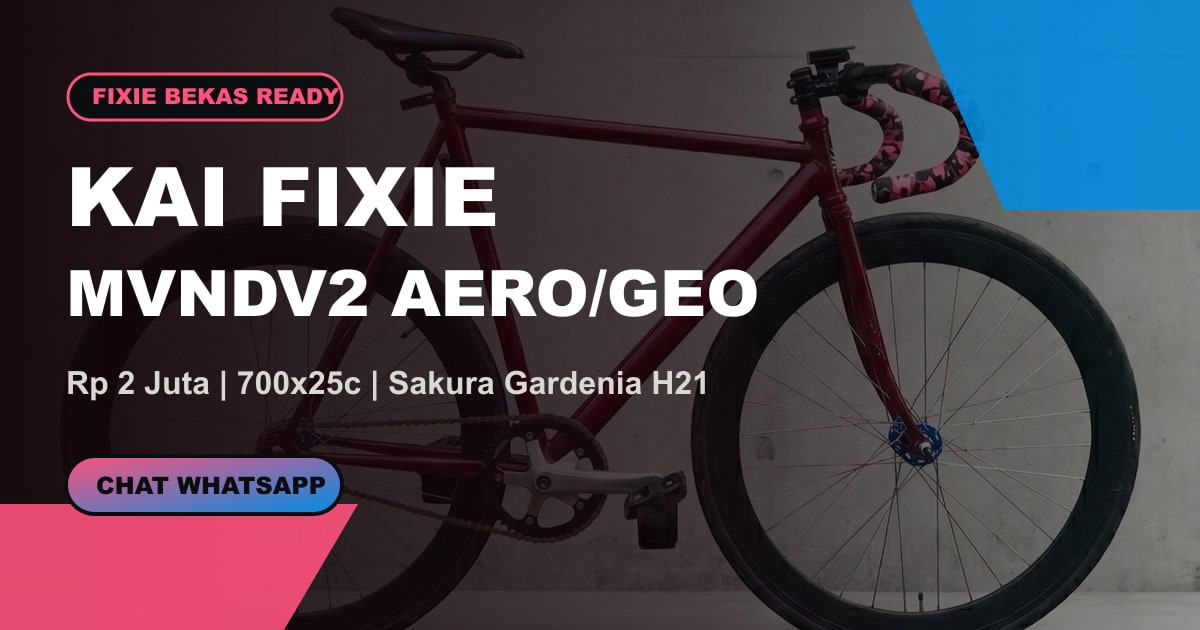
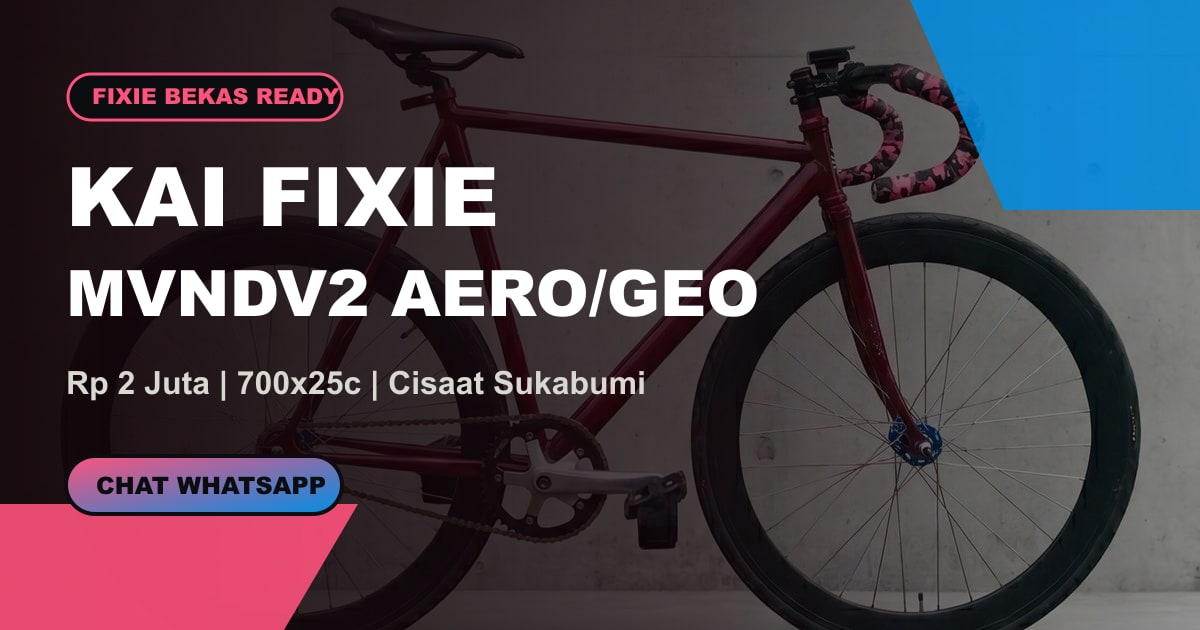
V8

Changed region(s): [[0.3083, 0.573, 0.5858, 0.6333]]

diff --git a/styles.css b/styles.css
@@ -718,6 +718,83 @@ h1 {
   background: var(--hub-blue);
 }
 
+.button-map {
+  margin-top: 12px;
+  color: var(--ink);
+  background: var(--chrome);
+}
+
+.button-outline-dark {
+  color: var(--ink);
+  background: var(--white);
+}
+
+.location-section {
+  background:
+    linear-gradient(180deg, rgba(255, 82, 124, 0.08), rgba(0, 142, 230, 0.08)),
+    var(--paper);
+}
+
+.location-layout {
+  display: grid;
+  grid-template-columns: minmax(0, 0.75fr) minmax(340px, 1fr);
+  gap: 28px;
+  align-items: stretch;
+}
+
+.location-copy {
+  border: 3px solid var(--ink);
+  border-radius: 8px;
+  padding: 30px;
+  background: var(--white);
+  box-shadow: var(--shadow);
+}
+
+.location-copy h2 {
+  font-size: 46px;
+  font-weight: 950;
+}
+
+.location-copy p:not(.eyebrow) {
+  color: var(--muted);
+  font-size: 16px;
+  line-height: 1.65;
+}
+
+.location-actions {
+  display: flex;
+  flex-wrap: wrap;
+  gap: 12px;
+  margin-top: 26px;
+}
+
+.location-copy address {
+  margin-top: 28px;
+  border-left: 5px solid var(--frame-maroon);
+  padding-left: 16px;
+  color: var(--muted);
+  font-size: 16px;
+  font-style: normal;
+  line-height: 1.55;
+}
+
+.map-frame {
+  min-height: 430px;
+  border: 3px solid var(--ink);
+  border-radius: 8px;
+  overflow: hidden;
+  background: var(--ink);
+  box-shadow: 9px 9px 0 var(--hub-blue);
+}
+
+.map-frame iframe {
+  width: 100%;
+  height: 100%;
+  min-height: 430px;
+  display: block;
+  border: 0;
+}
+
 .condition-band {
   display: grid;
   grid-template-columns: minmax(0, 0.9fr) minmax(260px, 0.7fr);
@@ -1558,6 +1635,10 @@ h1 {
     grid-template-columns: 1fr;
   }
 
+  .location-layout {
+    grid-template-columns: 1fr;
+  }
+
   .deal-panel {
     position: static;
   }
@@ -1663,6 +1744,7 @@ h1 {
 
   .section-heading h2,
   .story-copy h2,
+  .location-copy h2,
   .condition-band h2,
   .final-cta h2 {
     font-size: 38px;
@@ -1809,9 +1891,19 @@ h1 {
 
   .section-heading h2,
   .story-copy h2,
+  .location-copy h2,
   .condition-band h2,
   .final-cta h2 {
     font-size: 31px;
+  }
+
+  .location-copy {
+    padding: 20px;
+  }
+
+  .map-frame,
+  .map-frame iframe {
+    min-height: 300px;
   }
 
   .project-hero {

diff --git a/app/page.jsx b/app/page.jsx
@@ -13,6 +13,7 @@ import {
   projectCaseStudy,
   seoReadiness,
   seoWins,
+  sellerLocation,
   showcaseStats,
   specs,
   websiteJsonLd,
@@ -69,6 +70,14 @@ export default function Home() {
               </a>
               <a className="button button-secondary" href="#spek">
                 Cek Spek
+              </a>
+              <a
+                className="button button-secondary"
+                href={sellerLocation.directionsUrl}
+                target="_blank"
+                rel="noreferrer"
+              >
+                Rute Maps
               </a>
             </div>
           </div>
@@ -193,7 +202,56 @@ export default function Home() {
               <a className="button button-panel" href={whatsappUrl}>
                 Tanya sepeda
               </a>
+              <a
+                className="button button-map"
+                href={sellerLocation.directionsUrl}
+                target="_blank"
+                rel="noreferrer"
+              >
+                Rute ke lokasi
+              </a>
             </aside>
+          </div>
+        </section>
+
+        <section className="section location-section" aria-labelledby="location-title">
+          <div className="location-layout">
+            <div className="location-copy">
+              <p className="eyebrow dark">{sellerLocation.label}</p>
+              <h2 id="location-title">Cek unit langsung di titik Maps seller.</h2>
+              <p>
+                Lokasi diarahkan ke {sellerLocation.name}. Buka rute sebelum berangkat,
+                lalu konfirmasi jadwal lewat WhatsApp supaya seller siap di tempat.
+              </p>
+              <div className="location-actions">
+                <a
+                  className="button button-primary"
+                  href={sellerLocation.directionsUrl}
+                  target="_blank"
+                  rel="noreferrer"
+                >
+                  Buka rute
+                </a>
+                <a
+                  className="button button-outline-dark"
+                  href={sellerLocation.mapsUrl}
+                  target="_blank"
+                  rel="noreferrer"
+                >
+                  Lihat maps
+                </a>
+              </div>
+              <address>{sellerLocation.address}</address>
+            </div>
+            <div className="map-frame">
+              <iframe
+                src={sellerLocation.embedUrl}
+                title={`Peta ${sellerLocation.name}`}
+                loading="lazy"
+                allowFullScreen
+                referrerPolicy="no-referrer-when-downgrade"
+              />
+            </div>
           </div>
         </section>
 
@@ -304,13 +362,21 @@ export default function Home() {
 
         <section className="final-cta" id="kontak" aria-labelledby="cta-title">
           <p className="eyebrow">Ready kalau kamu ready</p>
-          <h2 id="cta-title">Gas cek barang di Sakura Gardenia BLOK H21.</h2>
+          <h2 id="cta-title">Gas cek barang di {sellerLocation.shortAddress}.</h2>
           <p>
             Chat dulu ke WhatsApp {product.phone}, tanya detail yang belum jelas, lalu
             atur jadwal cek dan test ride.
           </p>
           <a className="button button-primary" href={whatsappUrl}>
             Chat WhatsApp
+          </a>
+          <a
+            className="button button-secondary"
+            href={sellerLocation.directionsUrl}
+            target="_blank"
+            rel="noreferrer"
+          >
+            Rute Maps
           </a>
         </section>
       </main>

diff --git a/data/product.js b/data/product.js
@@ -13,12 +13,12 @@ export const product = {
   brand: "Kai Fixie",
   title: "MVNDV2 Aero/Geo Pursuit",
   seoTitle: "Kai Fixie - MVNDV2 Aero/Geo Pursuit Bekas",
-  eyebrow: "Fixie custom | Perumahan Sakura Gardenia BLOK H21",
+  eyebrow: "Fixie custom | SG Sakinah Grafika Cisaat Sukabumi",
   description:
     "Kai Fixie menghadirkan fixie maroon custom by FIXFIX, wheelset platinum, ban 700x25c, dan setup dropbar buat rolling kota yang tetap kelihatan beda.",
   price: "Rp 2 Juta",
   netPrice: "1.8 Juta Net",
-  location: "Perumahan Sakura Gardenia, BLOK H21",
+  location: "SG Sakinah Grafika, Jl. Arwana, Nagrak, Cisaat, Sukabumi",
   phone: "[phone redacted]",
   heroFacts: ["Rp 2 Juta", "1.8 Juta Net", "Cog 17T", "700x25c"],
   quickFacts: ["Rp 2 Juta", "Net 1.8 Juta", "Bisa cek barang", "Bonus lampu"],
@@ -27,10 +27,22 @@ export const product = {
   },
 };
 
+export const sellerLocation = {
+  label: "Titik cek barang",
+  name: "SG Sakinah Grafika",
+  address: "Jl. Arwana, Nagrak, Kec. Cisaat, Kabupaten Sukabumi, Jawa Barat 43132",
+  shortAddress: "SG Sakinah Grafika, Cisaat, Sukabumi",
+  mapsUrl: "https://maps.app.goo.gl/Xw9xGjmVuvE2fakt8",
+  directionsUrl:
+    "https://www.google.com/maps/dir//SG+Sakinah+Grafika,+Jl.+Arwana,+Nagrak,+Kec.+Cisaat,+Kabupaten+Sukabumi,+Jawa+Barat+43132/@-6.9010975,106.8854911,17z/data=!4m16!1m7!3m6!1s0x2e6837722a8ce32f:0xdaf52a3446a355df!2sSG+Sakinah+Grafika!8m2!3d-6.9010975!4d106.8854911!16s%2Fg%2F11pdym2c1r!4m7!1m0!1m5!1m1!1s0x2e6837722a8ce32f:0xdaf52a3446a355df!2m2!1d106.8855062!2d-6.9011075?entry=ttu&g_ep=EgoyMDI2MDUyNy4wIKXMDSoASAFQAw%3D%3D",
+  embedUrl:
+    "https://www.google.com/maps/embed?pb=!1m18!1m12!1m3!1d3960.91224830981!2d106.8854911!3d-6.901097499999999!2m3!1f0!2f0!3f0!3m2!1i1024!2i768!4f13.1!3m3!1m2!1s0x2e6837722a8ce32f%3A0xdaf52a3446a355df!2sSG%20Sakinah%20Grafika!5e0!3m2!1sen!2sid!4v1780316057358!5m2!1sen!2sid",
+};
+
 export const heroStats = [
   ["Harga buka", "Rp 2 Juta"],
   ["Harga net", "Rp 1.8 Juta"],
-  ["Lokasi", "Sakura H21"],
+  ["Lokasi", "Cisaat Sukabumi"],
 ];
 
 export const features = [
@@ -119,7 +131,7 @@ export const dealFlow = [
   {
     step: "Deal",
     title: "Ambil pulang",
-    description: "Kalau cocok, langsung deal di Sakura Gardenia BLOK H21.",
+    description: "Kalau cocok, langsung deal di titik SG Sakinah Grafika.",
   },
 ];
 
@@ -132,7 +144,7 @@ export const projectCaseStudy = [
   {
     title: "Solution",
     description:
-      "Kai Fixie dibuat sebagai landing page satu halaman yang menampilkan foto asli, spek, plus-minus, CTA WhatsApp, dan alur cek barang.",
+      "Kai Fixie dibuat sebagai landing page satu halaman yang menampilkan foto asli, spek, plus-minus, CTA WhatsApp, titik lokasi, dan alur cek barang.",
   },
   {
     title: "Impact",
@@ -196,7 +208,7 @@ export const productJsonLd = {
     priceCurrency: "IDR",
     price: "2000000",
     availability: "https://schema.org/InStock",
-    areaServed: "Perumahan Sakura Gardenia BLOK H21",
+    areaServed: sellerLocation.address,
     seller: {
       "@type": "Organization",
       name: "Kai Fixie",
@@ -207,7 +219,7 @@ export const productJsonLd = {
 export const specs = [
   ["Harga", "Rp 2 Juta"],
   ["Harga net", "Rp 1.8 Juta"],
-  ["Lokasi", "Sakura Gardenia BLOK H21"],
+  ["Lokasi", sellerLocation.shortAddress],
   ["Frame", "Flat besi custom FIXFIX"],
   ["Fork", "Klasik custom geo, DO mepet"],
   ["Wheelset", "Platinum 6cm/4cm"],

diff --git a/app/layout.jsx b/app/layout.jsx
@@ -3,7 +3,7 @@ import "../styles.css";
 const siteUrl = "https://fixie-bekas.vercel.app";
 const title = "Kai Fixie | Fixie MVNDV2 Aero/Geo Pursuit Bekas";
 const description =
-  "Kai Fixie menjual fixie MVNDV2 Aero/Geo Pursuit bekas: frame custom FIXFIX, wheelset platinum, ban 700x25c, bonus lampu, lokasi Sakura Gardenia BLOK H21.";
+  "Kai Fixie menjual fixie MVNDV2 Aero/Geo Pursuit bekas: frame custom FIXFIX, wheelset platinum, ban 700x25c, bonus lampu, titik cek barang Cisaat Sukabumi.";
 
 export const viewport = {
   themeColor: "#7f1d2f",

diff --git a/app/tentang-proyek/page.jsx b/app/tentang-proyek/page.jsx
@@ -40,6 +40,7 @@ const mainFeatures = [
   "Build story dan target rider untuk memperjelas positioning produk.",
   "Spek lengkap, kondisi plus, minus jujur, bonus, dan galeri foto.",
   "Deal flow yang menjelaskan alur chat, cek barang, test ride, dan deal.",
+  "Embed lokasi dan tombol rute Google Maps untuk membantu pembeli datang cek unit.",
   "CTA WhatsApp langsung dengan pesan siap kirim.",
 ];
 

diff --git a/README.md b/README.md
@@ -32,6 +32,7 @@ Kai Fixie
 - Section presentasi: build story, target rider, deal flow, project case study, dan SEO readiness.
 - Detail produk lengkap: harga, lokasi, spek part, bonus, kondisi plus, dan minus jujur.
 - CTA WhatsApp langsung ke nomor penjual.
+- Embed Google Maps dan tombol rute ke titik cek barang.
 - Open Graph thumbnail untuk share link.
 - Favicon dan Apple touch icon.
 - SEO metadata, canonical URL, sitemap, robots, manifest, dan JSON-LD structured data.